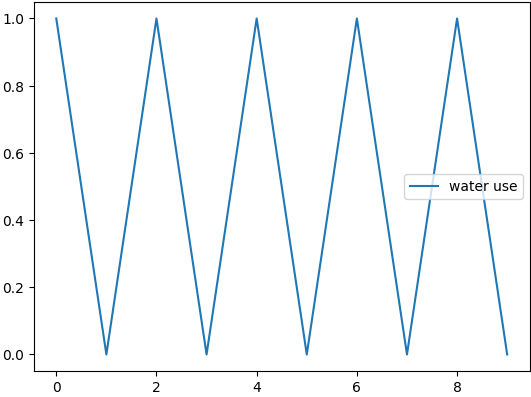
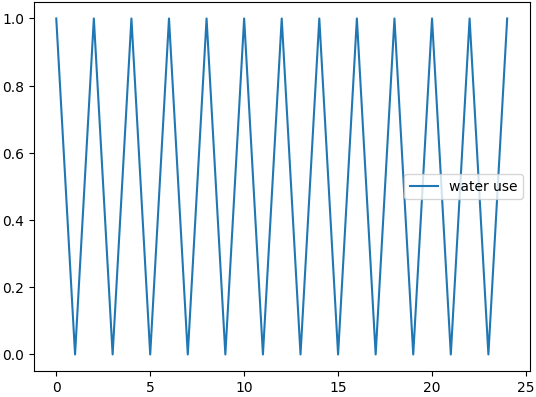
dummy data dxfer

diff --git a/RL_Framework/tune_fixed.py b/RL_Framework/tune_fixed.py
@@ -146,7 +146,7 @@ if __name__ == '__main__':
     obs_low = 0
     obs_high = rows * cols
 
-    garden_days = 10
+    garden_days = 100
     sector_obs_per_day = int(NUM_PLANTS + PERCENT_NON_PLANT_CENTERS * NUM_PLANTS)
     collection_time_steps = sector_obs_per_day * garden_days  # 210 sectors observed/garden_day * 200 garden_days
     water_threshold = 0.6
